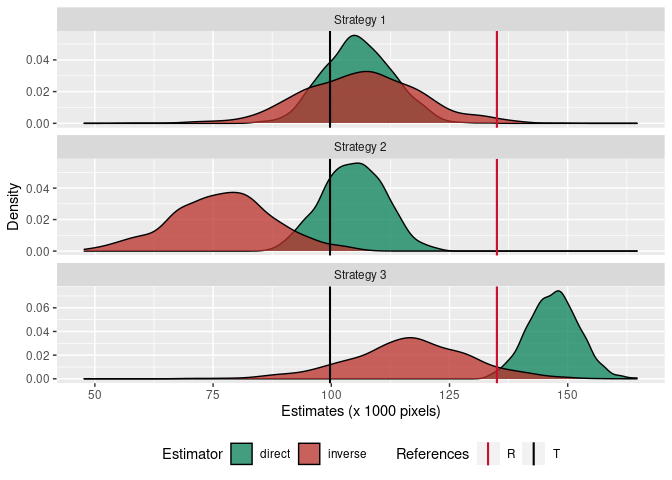
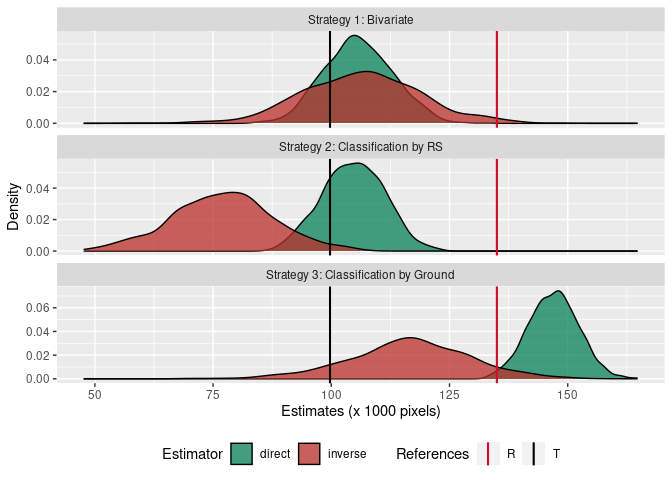
plots fixing

Changed region(s): [[0.375, 0.5625, 0.6875, 0.5938], [0.4062, 0.2812, 0.6562, 0.3125], [0.4375, 0.0312, 0.625, 0.0625]]

diff --git a/README.md b/README.md
@@ -1497,7 +1497,7 @@ result_one %>% filter(crop == 'Others', Sample == '1000') %>% ggplot() +
 <!--                size = 1, data = Reference)  -->
 <!-- ``` -->
 
-## Strategy 2: Remote Sensing
+## Strategy 2: Classification by RS
 
 ### a_0, r_0, t_0
 
@@ -2331,7 +2331,7 @@ result_two %>% filter(crop == 'Others', Sample == '1000') %>% ggplot() +
 
 ![](README_files/figure-gfm/unnamed-chunk-31-2.png)<!-- -->
 
-## Strategy 3: Ground
+## Strategy 3: Classification by Ground
 
 ### a_0, r_0, t_0
 
@@ -3174,8 +3174,8 @@ Crop =  colnames(jacques_matrix)[1]
 
 result_one %>% 
   mutate(Strategy = "Strategy 1") %>% 
-  bind_rows(result_two %>% mutate(Strategy = "Strategy 2")) %>% 
-  bind_rows(result_three %>% mutate(Strategy = "Strategy 3")) %>% 
+  bind_rows(result_two %>% mutate(Strategy = "Strategy 2: Classification by RS")) %>% 
+  bind_rows(result_three %>% mutate(Strategy = "Strategy 3: Classification by Ground")) %>% 
   filter(crop == Crop) %>% 
   filter(Sample == '1000') %>% 
   ggplot() +
@@ -3193,8 +3193,8 @@ result_one %>%
 ``` r
 result_one %>% 
   mutate(Strategy = "Strategy 1") %>% 
-  bind_rows(result_two %>% mutate(Strategy = "Strategy 2")) %>% 
-  bind_rows(result_three %>% mutate(Strategy = "Strategy 3")) %>% 
+  bind_rows(result_two %>% mutate(Strategy = "Strategy 2: Classification by RS")) %>% 
+  bind_rows(result_three %>% mutate(Strategy = "Strategy 3: Classification by Ground")) %>% 
   filter(crop == Crop) %>% 
   filter(Sample == '1000') %>% 
   ggplot() +
@@ -3216,8 +3216,8 @@ Crop =  colnames(jacques_matrix)[2]
 
 result_one %>% 
   mutate(Strategy = "Strategy 1") %>% 
-  bind_rows(result_two %>% mutate(Strategy = "Strategy 2")) %>% 
-  bind_rows(result_three %>% mutate(Strategy = "Strategy 3")) %>% 
+  bind_rows(result_two %>% mutate(Strategy = "Strategy 2: Classification by RS")) %>% 
+  bind_rows(result_three %>% mutate(Strategy = "Strategy 3: Classification by Ground")) %>% 
   filter(crop == Crop) %>% 
   filter(Sample == '1000') %>% 
   ggplot() +
@@ -3234,9 +3234,9 @@ result_one %>%
 
 ``` r
 result_one %>% 
-  mutate(Strategy = "Strategy 1") %>% 
-  bind_rows(result_two %>% mutate(Strategy = "Strategy 2")) %>% 
-  bind_rows(result_three %>% mutate(Strategy = "Strategy 3")) %>% 
+  mutate(Strategy = "Strategy 1: Bivariate") %>% 
+  bind_rows(result_two %>% mutate(Strategy = "Strategy 2: Classification by RS")) %>% 
+  bind_rows(result_three %>% mutate(Strategy = "Strategy 3: Classification by Ground")) %>% 
   filter(crop == Crop) %>% 
   filter(Sample == '1000') %>% 
   ggplot() +
@@ -3257,9 +3257,9 @@ result_one %>%
 Crop =  colnames(jacques_matrix)[3]
 
 result_one %>% 
-  mutate(Strategy = "Strategy 1") %>% 
-  bind_rows(result_two %>% mutate(Strategy = "Strategy 2")) %>% 
-  bind_rows(result_three %>% mutate(Strategy = "Strategy 3")) %>% 
+  mutate(Strategy = "Strategy 1: Bivariate") %>% 
+  bind_rows(result_two %>% mutate(Strategy = "Strategy 2: Classification by RS")) %>% 
+  bind_rows(result_three %>% mutate(Strategy = "Strategy 3: Classification by Ground")) %>% 
   filter(crop == Crop) %>% 
   filter(Sample == '1000') %>% 
   ggplot() +
@@ -3276,9 +3276,9 @@ result_one %>%
 
 ``` r
 result_one %>% 
-  mutate(Strategy = "Strategy 1") %>% 
-  bind_rows(result_two %>% mutate(Strategy = "Strategy 2")) %>% 
-  bind_rows(result_three %>% mutate(Strategy = "Strategy 3")) %>% 
+  mutate(Strategy = "Strategy 1: Bivariate") %>% 
+  bind_rows(result_two %>% mutate(Strategy = "Strategy 2: Classification by RS")) %>% 
+  bind_rows(result_three %>% mutate(Strategy = "Strategy 3: Classification by Ground")) %>% 
   filter(crop == Crop) %>% 
   filter(Sample == '1000') %>% 
   ggplot() +
@@ -3299,9 +3299,9 @@ result_one %>%
 Crop =  colnames(jacques_matrix)[4]
 
 result_one %>% 
-  mutate(Strategy = "Strategy 1") %>% 
-  bind_rows(result_two %>% mutate(Strategy = "Strategy 2")) %>% 
-  bind_rows(result_three %>% mutate(Strategy = "Strategy 3")) %>% 
+  mutate(Strategy = "Strategy 1: Bivariate") %>% 
+  bind_rows(result_two %>% mutate(Strategy = "Strategy 2: Classification by RS")) %>% 
+  bind_rows(result_three %>% mutate(Strategy = "Strategy 3: Classification by Ground")) %>% 
   filter(crop == Crop) %>% 
   filter(Sample == '1000') %>% 
   ggplot() +
@@ -3318,9 +3318,9 @@ result_one %>%
 
 ``` r
 result_one %>% 
-  mutate(Strategy = "Strategy 1") %>% 
-  bind_rows(result_two %>% mutate(Strategy = "Strategy 2")) %>% 
-  bind_rows(result_three %>% mutate(Strategy = "Strategy 3")) %>% 
+  mutate(Strategy = "Strategy 1: Bivariate") %>% 
+  bind_rows(result_two %>% mutate(Strategy = "Strategy 2: Classification by RS")) %>% 
+  bind_rows(result_three %>% mutate(Strategy = "Strategy 3: Classification by Ground")) %>% 
   filter(crop == Crop) %>% 
   filter(Sample == '1000') %>% 
   ggplot() +
@@ -3341,9 +3341,9 @@ result_one %>%
 Crop =  colnames(jacques_matrix)[5]
 
 result_one %>% 
-  mutate(Strategy = "Strategy 1") %>% 
-  bind_rows(result_two %>% mutate(Strategy = "Strategy 2")) %>% 
-  bind_rows(result_three %>% mutate(Strategy = "Strategy 3")) %>% 
+  mutate(Strategy = "Strategy 1: Bivariate") %>% 
+  bind_rows(result_two %>% mutate(Strategy = "Strategy 2: Classification by RS")) %>% 
+  bind_rows(result_three %>% mutate(Strategy = "Strategy 3: Classification by Ground")) %>% 
   filter(crop == Crop) %>% 
   filter(Sample == '1000') %>% 
   ggplot() +
@@ -3360,9 +3360,9 @@ result_one %>%
 
 ``` r
 result_one %>% 
-  mutate(Strategy = "Strategy 1") %>% 
-  bind_rows(result_two %>% mutate(Strategy = "Strategy 2")) %>% 
-  bind_rows(result_three %>% mutate(Strategy = "Strategy 3")) %>% 
+  mutate(Strategy = "Strategy 1: Bivariate") %>% 
+  bind_rows(result_two %>% mutate(Strategy = "Strategy 2: Classification by RS")) %>% 
+  bind_rows(result_three %>% mutate(Strategy = "Strategy 3: Classification by Ground")) %>% 
   filter(crop == Crop) %>% 
   filter(Sample == '1000') %>% 
   ggplot() +
